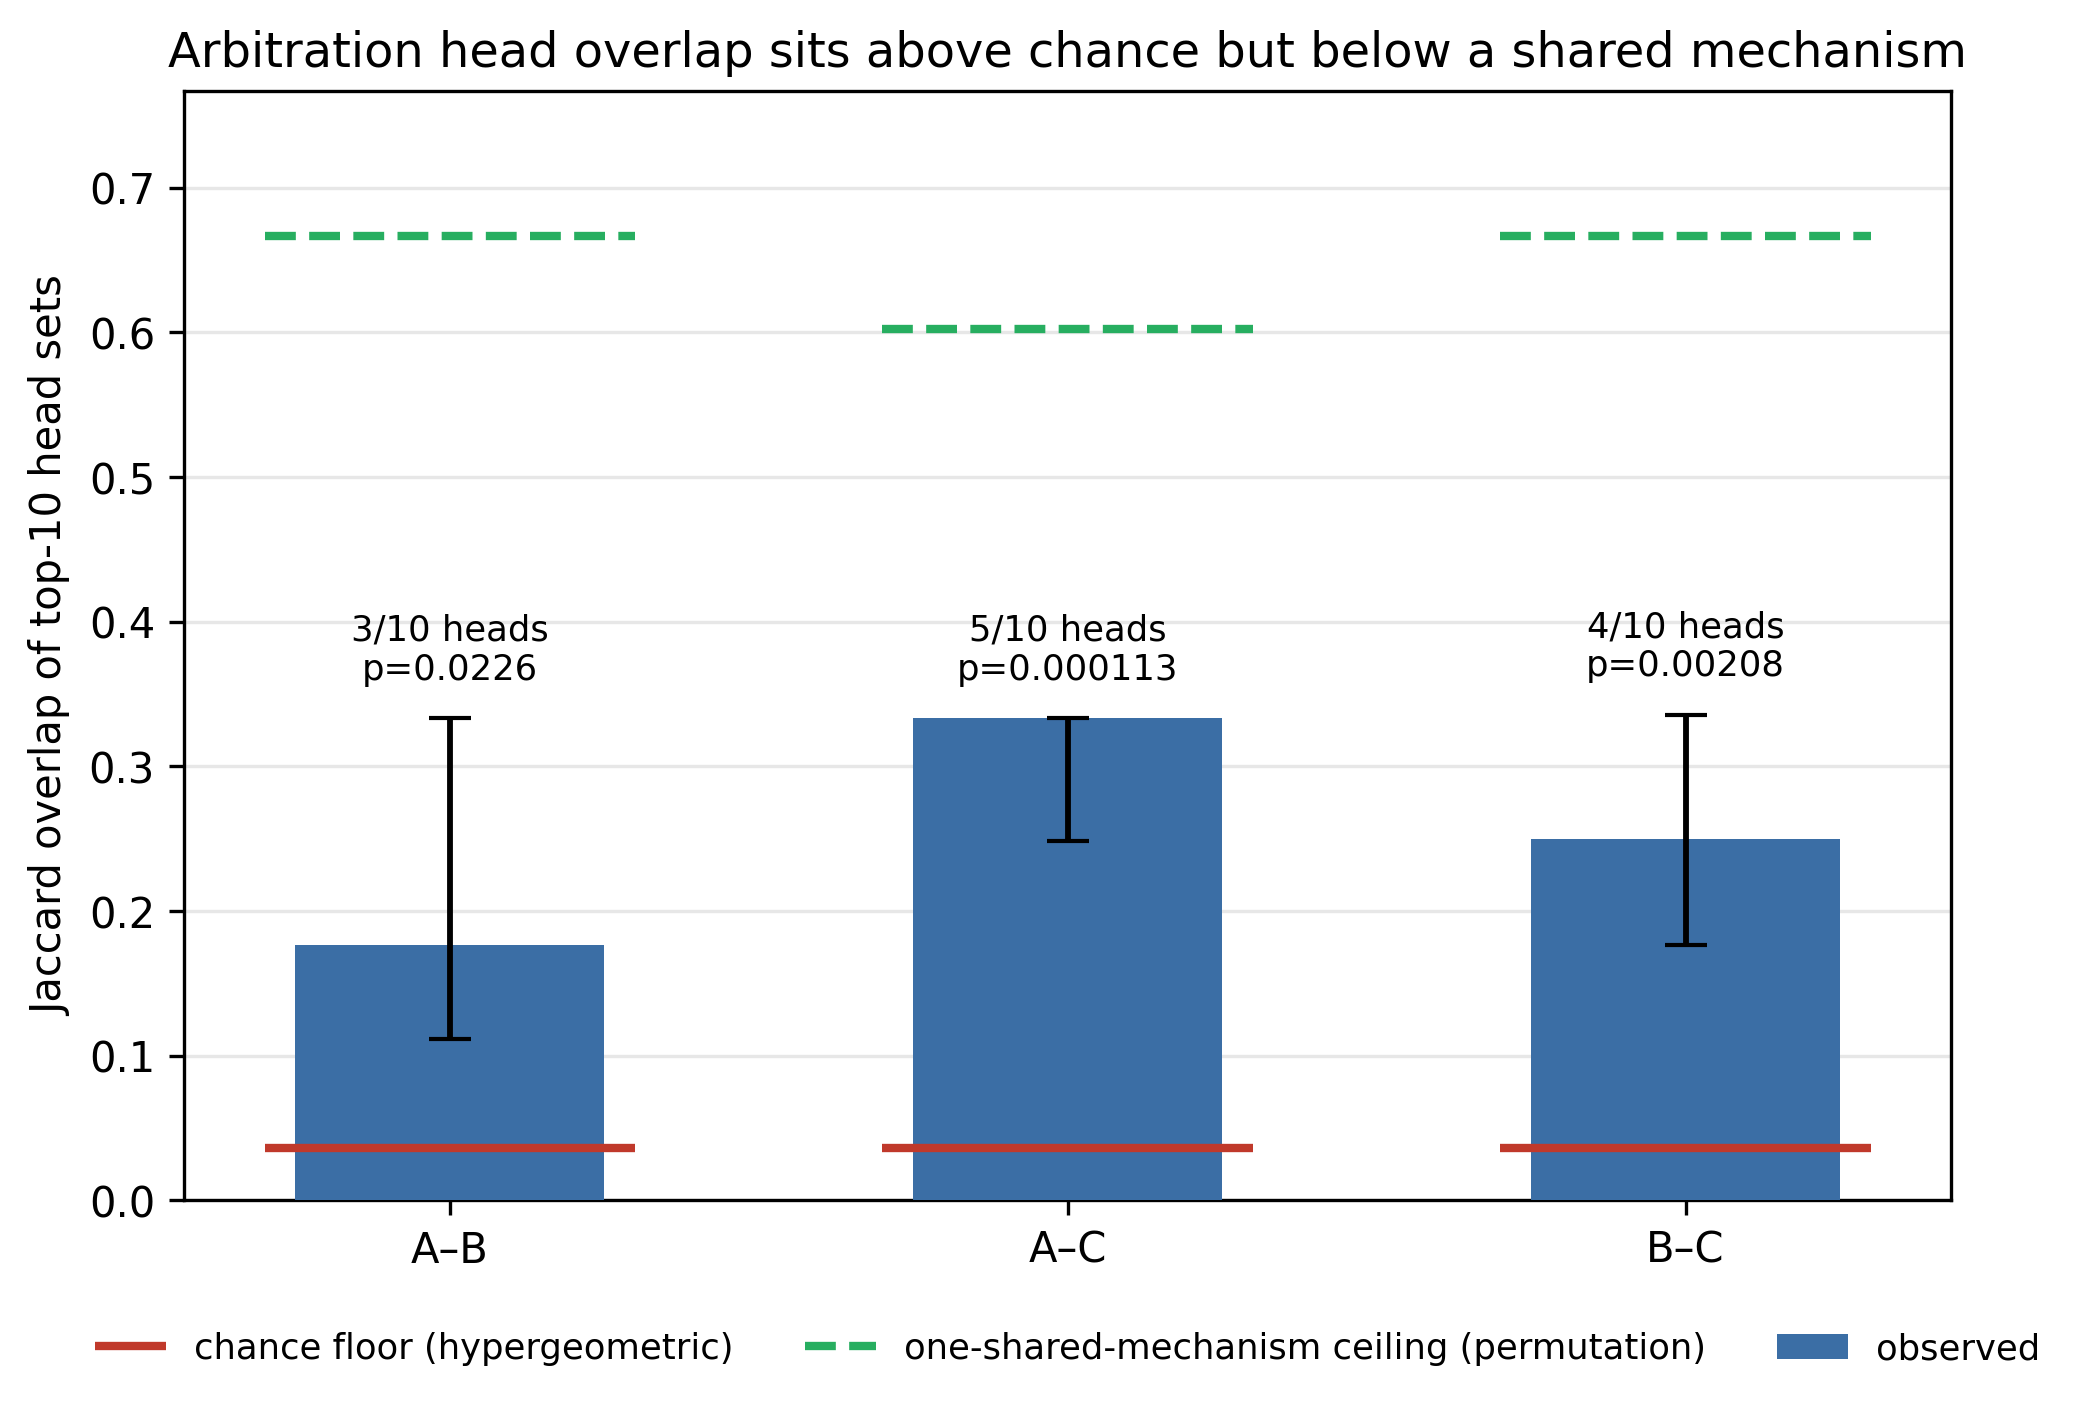
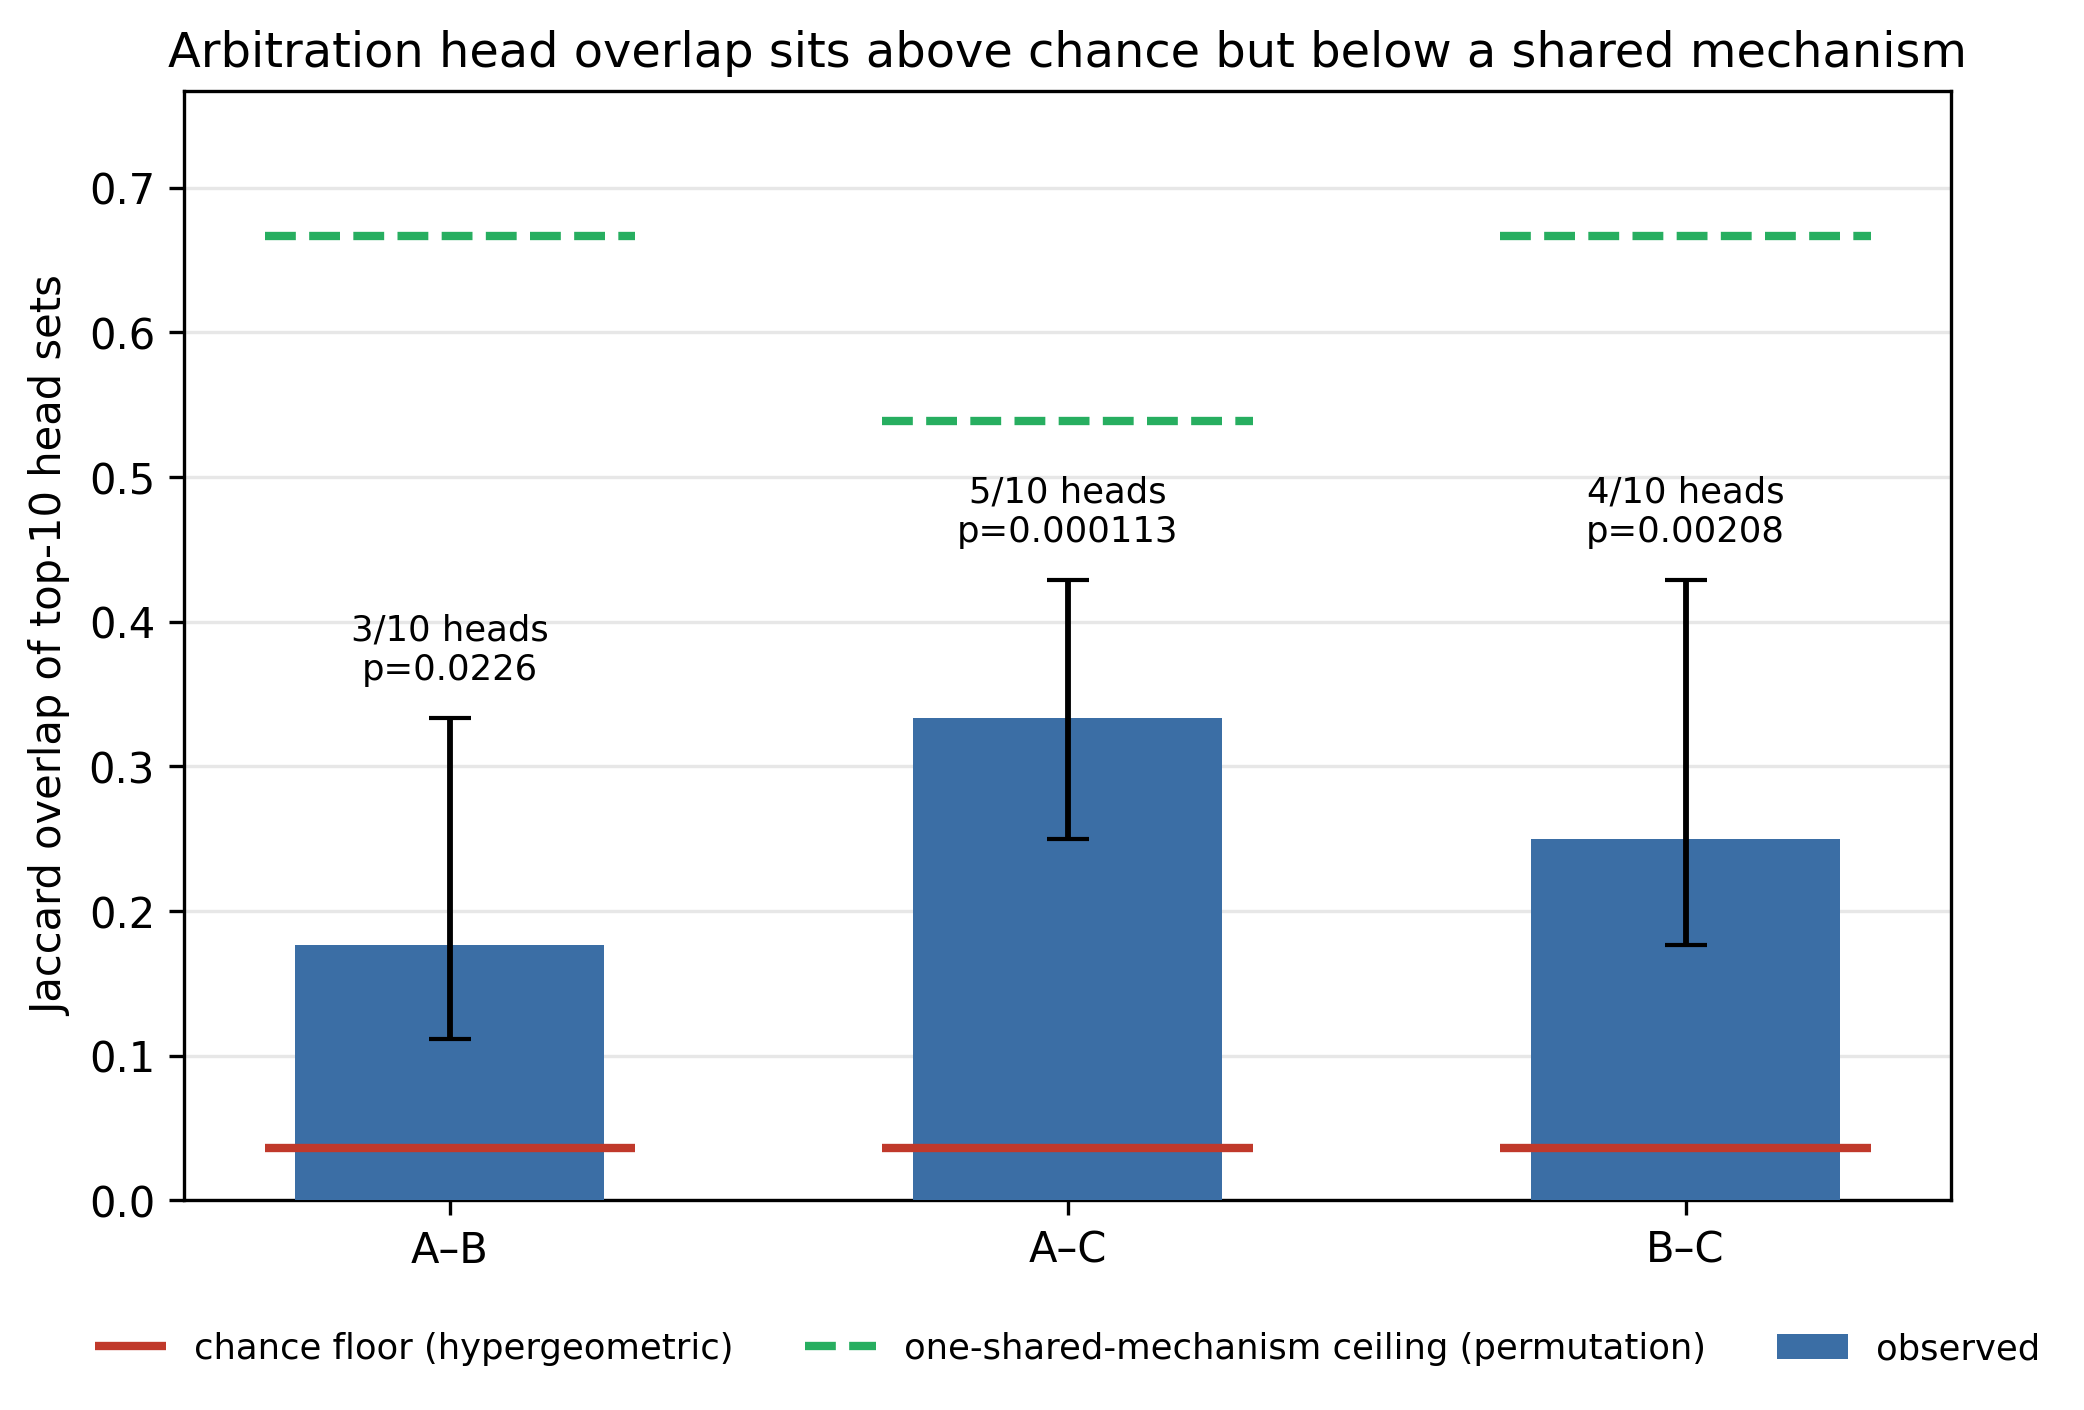
Raise null resolution to 10,000 resamples
p-values were resolution-limited below about 0.005 at 200 permutations.

Top-k selection ranks on median effect alone, so the 144 Wilcoxon tests that
paired_head_stats computes are pure overhead inside a resampling loop.
fast_top_k_selector computes the median directly: exactly equivalent, asserted
against the slow path, and takes the full run from roughly an hour to 14
seconds.

Conclusion unchanged. The A-C and B-C bootstrap intervals widen at the upper
end, so the 200-resample versions were optimistically narrow.

diff --git a/src/circuit_conflict/metrics.py b/src/circuit_conflict/metrics.py
@@ -115,6 +115,24 @@ def top_k_head_set(stats_df: pd.DataFrame, k: int = 10) -> HeadSet:
 # Overlap measures
 # ---------------------------------------------------------------------------
 
+def fast_top_k_selector(k: int = 10):
+    """
+    Top-k selector that skips the significance machinery.
+
+    `top_k_head_set` ranks on |median_effect| alone, so the 144 Wilcoxon tests
+    computed by `paired_head_stats` are pure overhead inside a resampling loop.
+    Computing the median directly makes a 10,000-permutation null cheap enough to
+    run, instead of ~30 minutes per category pair.  Exactly equivalent by
+    construction — asserted against the slow path in the test below.
+    """
+    def sel(effects: np.ndarray) -> HeadSet:
+        med = np.nanmedian(effects, axis=0)
+        order = np.argsort(-np.abs(med), axis=None)[:k]
+        ls, hs = np.unravel_index(order, med.shape)
+        return {(int(l), int(h)) for l, h in zip(ls, hs)}
+    return sel
+
+
 def jaccard(a: HeadSet, b: HeadSet) -> float:
     if not a and not b:
         return np.nan

diff --git a/src/circuit_conflict/pipeline.py b/src/circuit_conflict/pipeline.py
@@ -173,11 +173,13 @@ def main(effect_floor: float = 0.05, top_k: int = 10, seed: int = 0) -> None:
     abl.to_csv(RESULTS / "phase3" / "ablation_results.csv", index=False)
 
     print("\n[5/5] Cross-category overlap with null models")
-    selector_fdr = lambda e: M.select_head_set(M.paired_head_stats(e), effect_floor=effect_floor)
-    selector_topk = lambda e: M.top_k_head_set(M.paired_head_stats(e), k=top_k)
+    # fast_top_k_selector is exactly equivalent to top_k_head_set (both rank on
+    # |median effect|) but skips 144 Wilcoxon tests per resample, which is what
+    # makes 10,000 permutations take seconds rather than half an hour.
+    selector_topk = M.fast_top_k_selector(top_k)
 
     tbl_topk = M.compile_cross_category_table(
-        topk_sets, effects, selector_topk, n_perm=200, n_boot=200, seed=seed)
+        topk_sets, effects, selector_topk, n_perm=10000, n_boot=10000, seed=seed)
     tbl_topk.insert(0, "selection", f"top{top_k}")
     tbl_topk.to_csv(RESULTS / "phase4" / "cross_category_topk.csv", index=False)
 

diff --git a/README.md b/README.md
@@ -142,9 +142,10 @@ These are design constraints to address before writing up, not afterthoughts.
    not describe how it treats coreference it gets wrong.
 6. **Category C's landmark template is thin.** C2 contributes only 7 items across four
    distinct sequence lengths, so most of Category C rests on the country/capital frame.
-7. **Permutation-null cost.** The reported nulls use 200 permutations and 200 bootstrap
-   resamples for runtime. The p-values are therefore resolution-limited below ~0.005;
-   raise `n_perm`/`n_boot` in `compile_cross_category_table` before publication.
+7. **Single seed, single model.** Every head-level claim comes from one GPT-2 Small
+   checkpoint. Recent work finds mid-layer heads are unstable across training runs of
+   the same architecture, so these results describe this checkpoint. Replication on a
+   second model is the highest-value next step and is cheap.
 
 ---
 
@@ -216,11 +217,13 @@ memorised one. The apparatus reproduces a published result it was not tuned to.
 
 ### Headline: overlap is above chance but below a shared mechanism
 
-| Pair | Shared heads (of 10) | Jaccard | 95% CI | vs chance | vs one-mechanism |
+| Pair | Shared heads (of 10) | Jaccard | 95% CI | vs chance floor | vs one-mechanism ceiling |
 |---|---|---|---|---|---|
-| A–B | 3 | 0.176 | 0.111–0.333 | p = 0.023 | p < 0.005 |
-| A–C | 5 | 0.333 | 0.248–0.333 | p = 0.0001 | p < 0.005 |
-| B–C | 4 | 0.250 | 0.177–0.336 | p = 0.002 | p = 0.005 |
+| A–B | 3 | 0.176 | 0.111–0.333 | p = 0.023 | p < 0.0001 |
+| A–C | 5 | 0.333 | 0.250–0.429 | p = 0.0001 | p = 0.0010 |
+| B–C | 4 | 0.250 | 0.176–0.429 | p = 0.002 | p = 0.0008 |
+
+Nulls use 10,000 permutations and 10,000 bootstrap resamples.
 
 Chance overlap is J = 0.036 (≥3 shared heads needed for p < 0.05); the permutation ceiling sits at
 J ≈ 0.60–0.67. **Every pair is significantly above the floor and significantly below the ceiling.**
@@ -276,7 +279,7 @@ buried. Concretely:
 | Initial scaffold (library structure, notebook skeletons, plotting boilerplate) | AI-generated, subsequently audited and substantially rewritten |
 | Prompt generators and fact tables | AI-drafted from specifications set by the author; verified item by item |
 | Literature positioning | AI-assisted search; every citation read and checked against the claim it supports |
-| Experimental design (minimal-pair construction, choice of estimand, null models) | Author's decisions, developed in dialogue with AI |
+| Experimental design (minimal-pair construction, choice of estimand, null models) | Author's design |
 | Bug identification and repair | AI-assisted audit; each finding independently reproduced before fixing |
 | Results, interpretation, and all claims in the write-up | Author's |
 
